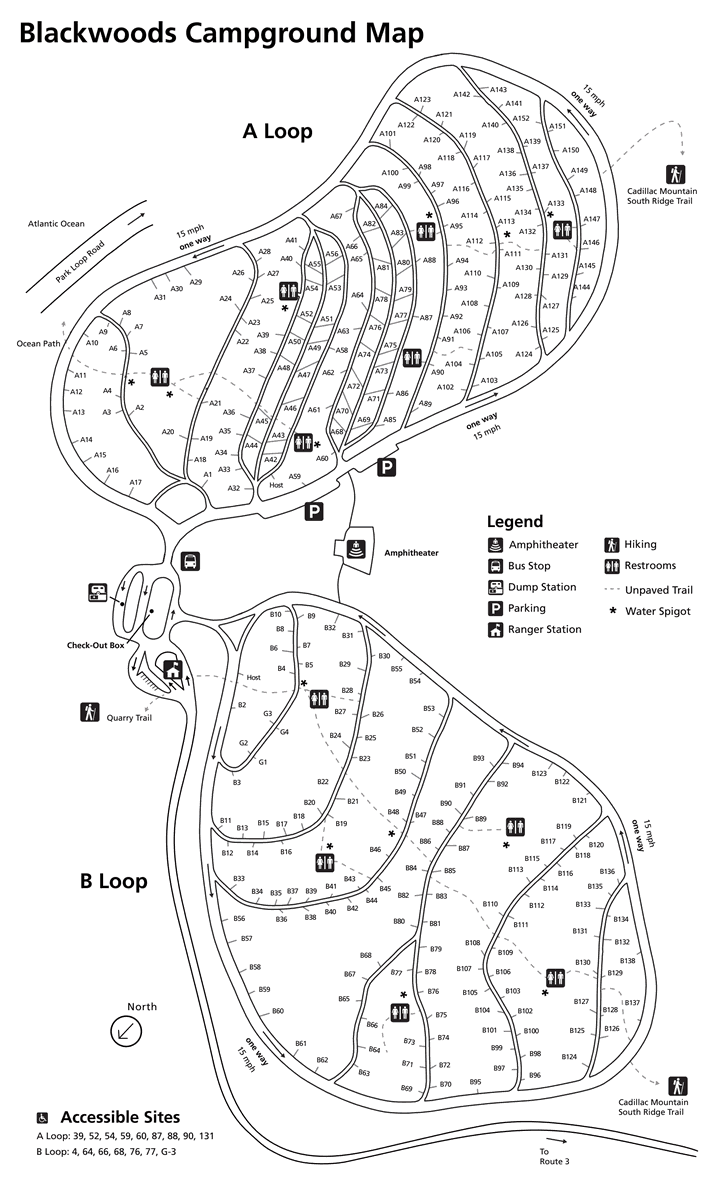
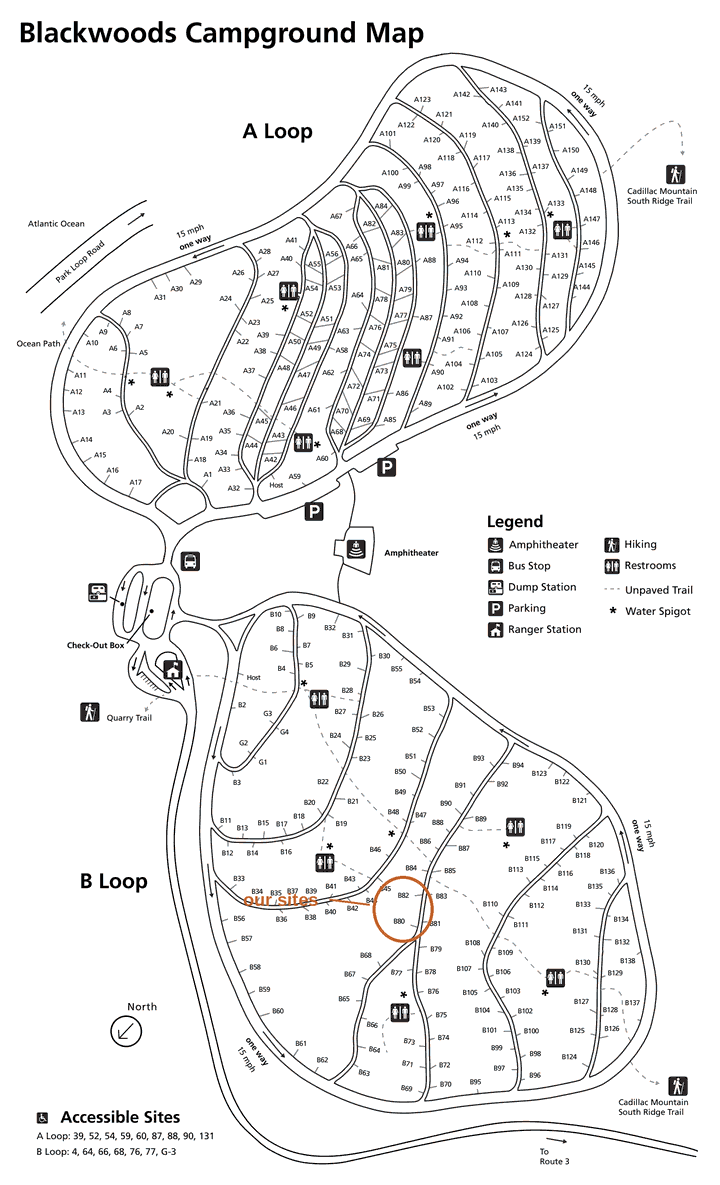
Camp facts on the plan: sites marked, directions, richer story
The schedule tells Chris's actual arrival story now — check in at
B080 + B082 (side by side on the B loop), camp setup, firewood/ice/
water, taco night, campfire + plan Saturday — applied live and in the
seed mirror. The loop map gets a blaze ring around the two sites with
an 'our sites' label, and the camp-card thumb recenters on them; the
card carries the site numbers and an Apple Maps directions link.

Entry photos now jump to their spot instead of opening the editor;
the entry and dish editors get explicit Done buttons (tap-away still
works); day-header weather taps through to the NWS hourly forecast for
the campground; the pine banner breathes a bit more.

Claude-Session: https://claude.ai/code/session_01JDTbmsJ5UKEPaWEYin5Bw2

Changed region(s): [[0.4889, 0.7181, 0.5806, 0.8118], [0.3361, 0.7494, 0.4583, 0.7806], [0.5806, 0.7494, 0.6111, 0.7806]]

diff --git a/components/Itinerary.tsx b/components/Itinerary.tsx
@@ -28,12 +28,13 @@ import {
   verticalListSortingStrategy,
 } from "@dnd-kit/sortable";
 import { CSS } from "@dnd-kit/utilities";
-import { Card, SubH } from "./primitives";
+import { Btn, Card, SubH } from "./primitives";
 import { Ideas } from "./Ideas";
 import { MapOverlay, useMapPrefetch } from "./MapLightbox";
 import { splitVibes } from "./Welcome";
+import { Favicon } from "./Explore";
 import { TRIP_DATES } from "@/lib/config";
-import { SPOTS } from "@/lib/content";
+import { EATS, SPOTS } from "@/lib/content";
 import { AddRow } from "./ui/AddRow";
 import { focusCenter } from "./ui/focusCenter";
 import { Chips } from "./ui/Chips";
@@ -60,6 +61,19 @@ const PARTS: { value: DayPart | null; label: string }[] = [
 
 const PART_ORDER: (DayPart | null)[] = [null, "morning", "afternoon", "evening"];
 const SPOT_BY_ID = new Map(SPOTS.map((s) => [s.id, s]));
+
+// The photogenic park picks surfaced under Saturday — tap jumps to Explore.
+const SAT_OPTION_IDS = [
+  "beehive",
+  "great-head",
+  "ocean-path",
+  "jordan-pond",
+  "echo-lake",
+  "sand-beach",
+];
+const SAT_OPTIONS = SAT_OPTION_IDS.map((id) => SPOT_BY_ID.get(id)!).filter(
+  (s) => s?.photo,
+);
 const PART_LABEL: Record<string, string> = {
   morning: "Morning",
   afternoon: "Afternoon",
@@ -140,13 +154,22 @@ function Entry({
           )}
         </div>
         {spotPhoto && (
-          // eslint-disable-next-line @next/next/no-img-element -- storage-hosted thumb
-          <img
-            src={spotPhoto.src}
-            alt=""
-            loading="lazy"
-            className="w-11 h-11 rounded-lg object-cover border border-rule shrink-0"
-          />
+          <button
+            onClick={(e) => {
+              e.stopPropagation();
+              jump(block.link_slug!);
+            }}
+            aria-label="Open spot"
+            className="shrink-0 p-0 bg-transparent border-none cursor-pointer"
+          >
+            {/* eslint-disable-next-line @next/next/no-img-element -- storage-hosted thumb */}
+            <img
+              src={spotPhoto.src}
+              alt=""
+              loading="lazy"
+              className="w-11 h-11 rounded-lg object-cover border border-rule block"
+            />
+          </button>
         )}
       </div>
     );
@@ -200,18 +223,23 @@ function Entry({
               value={block.day_part}
               onChange={(v) => updateBlock(block.id, { day_part: v })}
             />
-            <button
-              onClick={() => {
-                const snapshot = { ...block };
-                onCollapse();
-                deleteBlock(block.id);
-                showUndo("Deleted", () => restoreBlock(snapshot));
-              }}
-              aria-label="Delete entry"
-              className="bg-transparent border-none cursor-pointer p-2 text-[#C3BCA8] shrink-0"
-            >
-              <Trash2 size={16} />
-            </button>
+            <div className="flex items-center gap-1 shrink-0">
+              <button
+                onClick={() => {
+                  const snapshot = { ...block };
+                  onCollapse();
+                  deleteBlock(block.id);
+                  showUndo("Deleted", () => restoreBlock(snapshot));
+                }}
+                aria-label="Delete entry"
+                className="bg-transparent border-none cursor-pointer p-2 text-[#C3BCA8]"
+              >
+                <Trash2 size={16} />
+              </button>
+              <Btn small onClick={onCollapse}>
+                Done
+              </Btn>
+            </div>
           </div>
         </div>
       </div>
@@ -322,32 +350,43 @@ export function Itinerary({ jump }: { jump: (slug: string) => void }) {
 
   return (
     <div className="px-3.5 pt-4 pb-5">
-      <button
-        onClick={() => setMapOpen(true)}
-        className="block w-full text-left bg-transparent border-none p-0 cursor-pointer mb-[26px]"
-      >
-          <Card className="flex items-center gap-3 p-3">
-            {/* eslint-disable-next-line @next/next/no-img-element -- repo-hosted thumb */}
-            <img
-              src="/maps/blackwoods-thumb.png"
-              alt=""
-              width={64}
-              height={64}
-              className="w-16 h-16 rounded-lg border border-rule shrink-0"
-            />
-            <span className="flex-1 min-w-0">
-              <span className="block text-[14.5px] font-semibold text-ink">
-                Base camp — Blackwoods
-              </span>
-              <span className="block font-mono text-[10.5px] text-mute mt-0.5">
-                check-in 1 pm · checkout 11 am
-              </span>
-              <span className="block font-mono text-[10.5px] text-blaze mt-0.5">
-                loop map
-              </span>
+      <Card className="flex items-center gap-3 p-3 mb-[26px]">
+        <button
+          onClick={() => setMapOpen(true)}
+          className="flex-1 min-w-0 flex items-center gap-3 text-left bg-transparent border-none p-0 cursor-pointer"
+        >
+          {/* eslint-disable-next-line @next/next/no-img-element -- repo-hosted thumb */}
+          <img
+            src="/maps/blackwoods-thumb.png"
+            alt=""
+            width={64}
+            height={64}
+            className="w-16 h-16 rounded-lg border border-rule shrink-0"
+          />
+          <span className="flex-1 min-w-0">
+            <span className="block text-[14.5px] font-semibold text-ink">
+              Base camp — Blackwoods
             </span>
-          </Card>
+            <span className="block font-mono text-[10.5px] text-moss mt-0.5">
+              sites B080 + B082 · B loop
+            </span>
+            <span className="block font-mono text-[10.5px] text-mute mt-0.5">
+              check-in 1 pm · checkout 11 am
+            </span>
+            <span className="block font-mono text-[10.5px] text-blaze mt-0.5">
+              loop map — we&apos;re circled
+            </span>
+          </span>
         </button>
+        <a
+          href="https://maps.apple.com/?q=Blackwoods%20Campground&ll=44.3096,-68.2044"
+          target="_blank"
+          rel="noopener noreferrer"
+          className="inline-flex items-center gap-1 shrink-0 text-[12px] font-semibold text-blaze no-underline"
+        >
+          directions <ArrowUpRight size={11} />
+        </a>
+      </Card>
       {sortedDays.map((d) => {
         const w = weather[d.id];
         const WIcon = w ? weatherIcon(w.condition) : null;
@@ -376,17 +415,22 @@ export function Itinerary({ jump }: { jump: (slug: string) => void }) {
                 </h3>
               </div>
               {w && WIcon && (
-                <div className="flex items-center gap-1.5 shrink-0">
+                <a
+                  href="https://forecast.weather.gov/MapClick.php?lat=44.3096&lon=-68.2044"
+                  target="_blank"
+                  rel="noopener noreferrer"
+                  className="flex items-center gap-1.5 shrink-0 no-underline"
+                >
                   <WIcon size={17} className="text-granite" />
                   <span className="font-mono text-[13px] text-ink font-medium">
                     {w.high}° / {w.low}°
                   </span>
-                </div>
+                </a>
               )}
             </div>
             {w && <div className="text-[11.5px] text-mute mb-2">{w.condition}</div>}
 
-            <Card className="overflow-hidden">
+            <Card className="overflow-hidden mb-0">
               {sections.length === 0 ? (
                 <AddRow
                   label="Add"
@@ -439,6 +483,58 @@ export function Itinerary({ jump }: { jump: (slug: string) => void }) {
                 </DndContext>
               )}
             </Card>
+
+            {d.id === "sat" && (
+              <div className="mt-3">
+                <div className="font-mono text-[10px] tracking-[.1em] uppercase text-granite mb-1.5">
+                  Saturday options
+                </div>
+                <div className="flex gap-2.5 overflow-x-auto snap-x pb-1 -mx-3.5 px-3.5">
+                  {SAT_OPTIONS.map((s) => (
+                    <button
+                      key={s.id}
+                      onClick={() => jump(s.id)}
+                      className="snap-start shrink-0 w-[128px] text-left bg-card border border-rule rounded-[10px] overflow-hidden p-0 cursor-pointer"
+                    >
+                      {/* eslint-disable-next-line @next/next/no-img-element -- storage-hosted thumb */}
+                      <img
+                        src={s.photo!.src}
+                        alt=""
+                        loading="lazy"
+                        className="w-full h-[76px] object-cover block"
+                      />
+                      <span className="block px-2 pt-1.5 pb-2">
+                        <span className="block text-[12.5px] font-semibold text-ink leading-[1.2]">
+                          {s.name}
+                        </span>
+                        <span className="block font-mono text-[9.5px] text-blaze mt-0.5 truncate">
+                          {s.meta}
+                        </span>
+                      </span>
+                    </button>
+                  ))}
+                </div>
+                <div className="font-mono text-[10px] tracking-[.1em] uppercase text-granite mt-2.5 mb-1.5">
+                  Dinner in town
+                </div>
+                <div className="flex flex-wrap items-center gap-x-3.5 gap-y-1.5">
+                  {EATS.map((e) => (
+                    <a
+                      key={e.name}
+                      href={e.maps}
+                      target="_blank"
+                      rel="noopener noreferrer"
+                      className="inline-flex items-center gap-1.5 text-[12px] font-semibold text-blaze no-underline"
+                    >
+                      <Favicon url={e.maps} /> {e.name}
+                    </a>
+                  ))}
+                </div>
+                <div className="font-mono text-[10px] text-mute mt-1.5">
+                  more on the Explore tab
+                </div>
+              </div>
+            )}
           </div>
         );
       })}

diff --git a/lib/seeds.ts b/lib/seeds.ts
@@ -16,13 +16,14 @@ export const SEED_BLOCKS: {
   sort: number;
 }[] = [
   { day_id: "fri", title: "Rolling in all day", detail: "arrivals staggered — text the thread an hour out", day_part: null, link_slug: null, sort: 1 },
-  { day_id: "fri", title: "Claim the sites, tents up", detail: "first crew sets the kitchen", day_part: "afternoon", link_slug: null, sort: 2 },
-  { day_id: "fri", title: "Firewood + ice run", detail: "buy wood on the island — no out-of-state wood", day_part: "afternoon", link_slug: null, sort: 3 },
-  { day_id: "fri", title: "Taco night at camp", detail: "we cook Friday", day_part: "evening", link_slug: null, sort: 4 },
-  { day_id: "fri", title: "Campfire, stay in", detail: "food sleeps in cars · quiet hours at 10", day_part: "evening", link_slug: null, sort: 5 },
-  { day_id: "sat", title: "Into the park", detail: "passes sorted at the gate", day_part: "morning", link_slug: null, sort: 1 },
-  { day_id: "sat", title: "Shuttle or cars — call it at breakfast", detail: "Route 10 stops at the campground", day_part: "morning", link_slug: "shuttle", sort: 2 },
-  { day_id: "sat", title: "Out in the park all day", detail: "Beehive · Ocean Path · Jordan Pond · Echo Lake", day_part: "afternoon", link_slug: "beehive", sort: 3 },
+  { day_id: "fri", title: "Check in — sites B080 + B082", detail: "side by side on the B loop", day_part: "afternoon", link_slug: null, sort: 2 },
+  { day_id: "fri", title: "Camp setup", detail: "tents, kitchen, tarp — first crew starts", day_part: "afternoon", link_slug: null, sort: 3 },
+  { day_id: "fri", title: "Firewood, ice, water", detail: "wood on the island only · spigots at camp for refills", day_part: "afternoon", link_slug: null, sort: 4 },
+  { day_id: "fri", title: "Taco night at camp", detail: "we cook Friday", day_part: "evening", link_slug: null, sort: 5 },
+  { day_id: "fri", title: "Campfire + plan Saturday", detail: "food sleeps in cars · quiet hours at 10", day_part: "evening", link_slug: null, sort: 6 },
+  { day_id: "sat", title: "Breakfast, pick the plan", detail: "which hikes, who's going where", day_part: "morning", link_slug: null, sort: 1 },
+  { day_id: "sat", title: "Shuttle or cars", detail: "Route 10 stops at the campground", day_part: "morning", link_slug: "shuttle", sort: 2 },
+  { day_id: "sat", title: "Out in the park", detail: "pick from the options below", day_part: "afternoon", link_slug: "beehive", sort: 3 },
   { day_id: "sat", title: "Dinner in Bar Harbor", detail: "call ahead — nobody reserves for 12", day_part: "evening", link_slug: "bar-harbor", sort: 4 },
   { day_id: "sun", title: "Breakfast, break camp", detail: "trash packs out", day_part: "morning", link_slug: null, sort: 1 },
   { day_id: "sun", title: "Permit in the check-out box", detail: "sweep both sites", day_part: "morning", link_slug: null, sort: 2 },

diff --git a/components/Food.tsx b/components/Food.tsx
@@ -2,7 +2,7 @@
 
 import { useRef, useState } from "react";
 import { ChevronDown, Plus, Trash2 } from "lucide-react";
-import { Box, Card, Input, Kill, Segmented, SubH } from "./primitives";
+import { Box, Btn, Card, Input, Kill, Segmented, SubH } from "./primitives";
 import { AddRow } from "./ui/AddRow";
 import { Chips } from "./ui/Chips";
 import { focusCenter } from "./ui/focusCenter";
@@ -294,7 +294,7 @@ export function Food({
               />
             </div>
           </div>
-          <div className="flex justify-end">
+          <div className="flex items-center justify-end gap-1">
             <button
               onClick={() => {
                 const snapshot = { ...f };
@@ -308,6 +308,9 @@ export function Food({
             >
               <Trash2 size={16} />
             </button>
+            <Btn small onClick={collapse}>
+              Done
+            </Btn>
           </div>
         </div>
       </div>

diff --git a/components/Header.tsx b/components/Header.tsx
@@ -35,7 +35,7 @@ export function Header() {
     // In the installed app the pine flows under the iOS status bar
     // (viewport-fit=cover + translucent status bar); the safe-area padding
     // keeps the text below the clock.
-    <header className="bg-pine relative overflow-hidden px-[18px] pb-[18px] pt-[calc(env(safe-area-inset-top)+22px)]">
+    <header className="bg-pine relative overflow-hidden px-[18px] pb-[22px] pt-[calc(env(safe-area-inset-top)+30px)]">
       <Topo />
       <div className="relative flex justify-between items-end gap-3.5">
         <div className="min-w-0">
